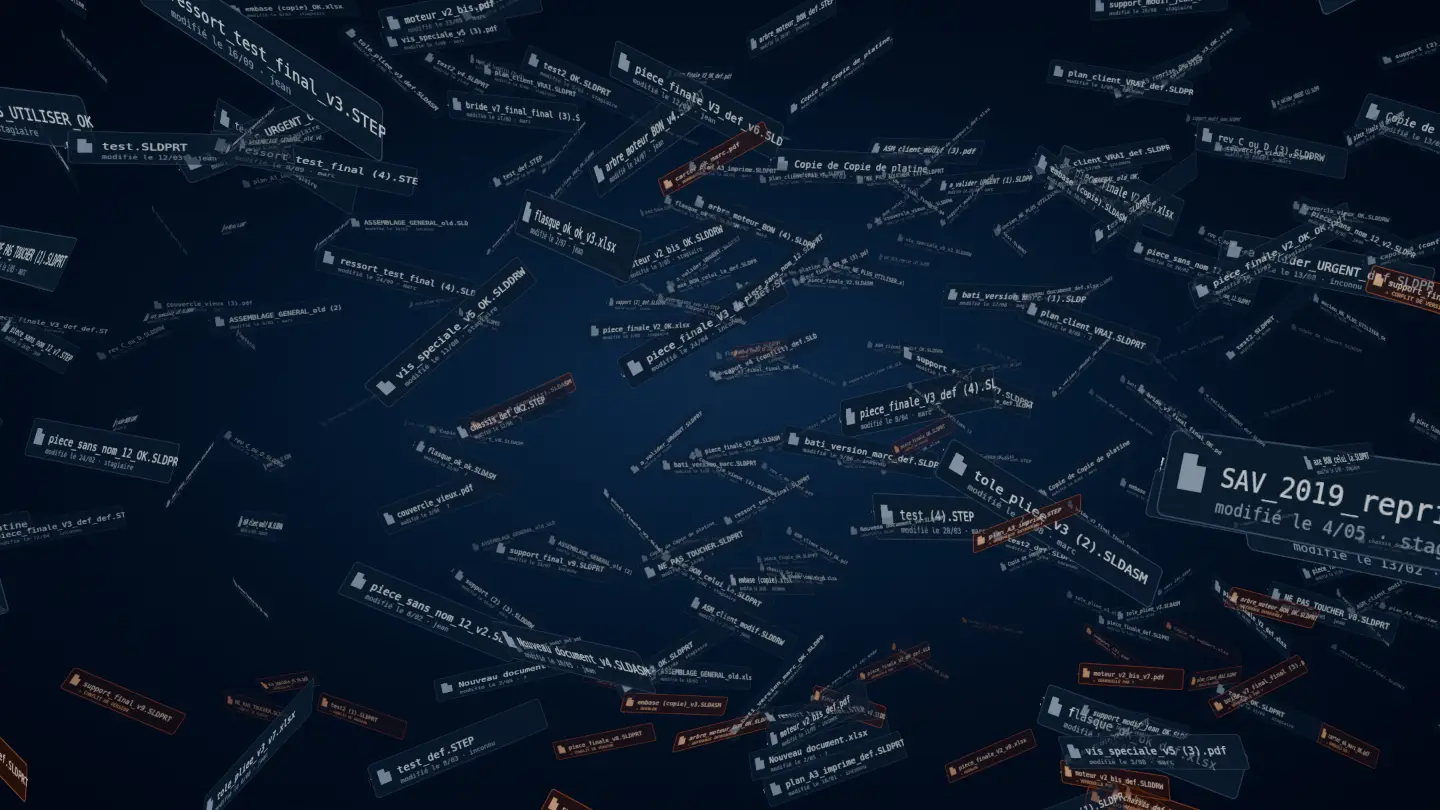
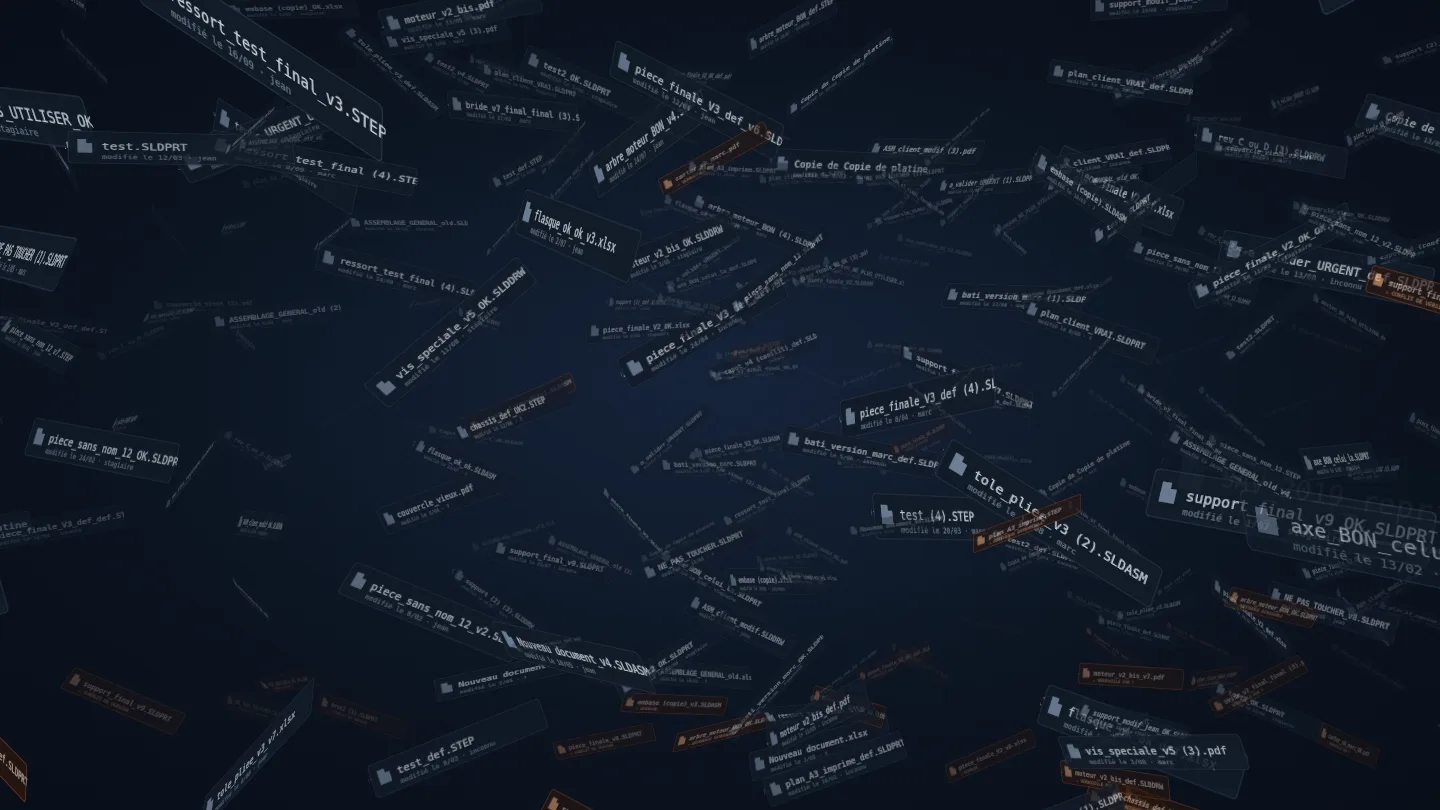
Accueil : titre SOLIDWORKS entier, entrée fluide, image d'attente nette
- le titre se dimensionne sur sa colonne : au-delà d'environ 1700 px le
  « KS » de SOLIDWORKS débordait du masque et était coupé ; le masque ne
  coupe plus qu'en hauteur (police de repli plus large incluse)
- la scène 3D ne se construit qu'après l'entrée du titre (ou au premier
  défilement) : elle bloquait le processeur pendant l'animation
- image d'attente régénérée depuis la première image exacte de la scène,
  en 1x et 2x : nette sur écran haute densité, relève invisible

Claude-Session: https://claude.ai/code/session_01VqtZaX59sHntKJqtvPaQWo

diff --git a/src/styles/components/hero-film.css b/src/styles/components/hero-film.css
@@ -20,7 +20,13 @@
 
 .cinematic .film-hero .hero-inner { position: relative; z-index: 2; display: flex; align-items: center; min-height: 100vh; min-height: 100svh; padding-block: 7rem 5rem; }
 .cinematic .film-hero .hero-copy { width: min(44rem, 52vw); }
-.cinematic .film-hero .hero-title { font-size: clamp(3rem, 7.4vw, 8.4rem); line-height: .95; letter-spacing: -.06em; }
+/* taille bornée par la colonne (cqw) : au-delà d'environ 1700 px la colonne
+   plafonne à 44rem alors que le vw grandit encore, et « SOLIDWORKS » (≈ 6,2 em)
+   débordait de son masque — le « KS » final était coupé */
+.cinematic .film-hero .hero-title { font-size: clamp(3rem, min(7.4vw, 15.6cqw), 8.4rem); line-height: .95; letter-spacing: -.06em; }
+/* le masque de l'entrée ne coupe qu'en hauteur : une police de repli plus large
+   (avant chargement de la webfont) ne rogne plus la fin du mot */
+.film-hero .hero-title .mask-line { overflow-x: visible; overflow-y: clip; }
 .cinematic .film-hero .hero-subtitle { max-width: 40ch; }
 
 /* ---------- chapitres (texte à plat par défaut) ---------- */
@@ -100,7 +106,7 @@
   .fh-veil { background: linear-gradient(0deg, rgb(8 14 24 / .9) 0%, rgb(8 14 24 / .4) 45%, transparent 65%), radial-gradient(ellipse 140% 90% at 50% 40%, transparent 55%, rgb(4 8 14 / .7)); }
   .cinematic .film-hero .hero-inner { align-items: flex-end; padding-bottom: 6rem; }
   .cinematic .film-hero .hero-copy { width: 100%; }
-  .cinematic .film-hero .hero-title { font-size: clamp(2.6rem, 12vw, 4.4rem); }
+  .cinematic .film-hero .hero-title { font-size: clamp(2.6rem, min(12vw, 15.6cqw), 4.4rem); }
   .film-hero.is-live .fh-chapter, .film-hero.is-live .fh-steps { top: auto; bottom: 6rem; translate: none; }
   .film-hero.is-live .fh-step { top: auto; bottom: 0; translate: none; max-width: calc(100vw - 2 * var(--gutter)); }
   .film-hero.is-live .fh-step h3 { font-size: clamp(2rem, 9vw, 3rem); margin: .6rem 0; }

diff --git a/src/js/modules/cinematic.js b/src/js/modules/cinematic.js
@@ -18,8 +18,23 @@ export function initCinematic() {
   // données (ou sans WebGL 2), l'image fixe et les textes à plat suffisent :
   // rien n'est chargé. Le script en ligne du hero a déjà posé .is-live.
   const filmHero=document.querySelector('.film-hero.is-live');
+  // La scène (Three.js, planches de texte, compilation des shaders) ne démarre
+  // qu'une fois l'entrée du titre jouée : construite pendant l'animation, elle
+  // occupait le processeur et le GPU et faisait saccader le titre. L'image
+  // d'attente est la première image exacte de la scène : la relève est invisible.
+  // Un défilement précoce la lance tout de suite.
   if(filmHero){
-    import('./hero-film.js').then(({initHeroFilm})=>initHeroFilm(filmHero)).catch(()=>filmHero.classList.remove('is-live'));
+    let started=false;
+    const start=()=>{
+      if(started) return; started=true;
+      removeEventListener('scroll',start);
+      import('./hero-film.js').then(({initHeroFilm})=>initHeroFilm(filmHero)).catch(()=>filmHero.classList.remove('is-live'));
+    };
+    const whenIdle=()=>('requestIdleCallback' in window ? requestIdleCallback(start,{timeout:400}) : setTimeout(start,50));
+    const last=filmHero.querySelector('.hero-cta');
+    last?.addEventListener('animationend',whenIdle,{once:true});
+    setTimeout(whenIdle,1600);
+    addEventListener('scroll',start,{passive:true,once:true});
   }
 
   const note=document.createElement('p');

diff --git a/src/index.html b/src/index.html
@@ -75,8 +75,9 @@
                     <!-- sans film (mouvement réduit), l’image fixe montre la nomenclature en rosace -->
                     <source media="(prefers-reduced-motion: reduce) and (max-aspect-ratio: 1/1)" srcset="/film/hero/mob/069.webp">
                     <source media="(prefers-reduced-motion: reduce)" srcset="/film/hero/desk/139.webp">
-                    <source media="(max-aspect-ratio: 1/1)" srcset="/film/hero/mob/000.webp">
-                    <img src="/film/hero/desk/000.webp" alt="" width="1440" height="810" fetchpriority="high" decoding="async">
+                    <!-- 1× et 2× : sur écran haute densité l'image d'attente reste nette, et c'est la première image exacte de la scène -->
+                    <source media="(max-aspect-ratio: 1/1)" srcset="/film/hero/mob/000.webp 720w, /film/hero/mob/000@2x.webp 1440w" sizes="100vw">
+                    <img src="/film/hero/desk/000.webp" srcset="/film/hero/desk/000.webp 1440w, /film/hero/desk/000@2x.webp 2880w" sizes="100vw" alt="" width="1440" height="810" fetchpriority="high" decoding="async">
                 </picture>
                 <canvas class="fh-canvas" aria-hidden="true"></canvas>
                 <div class="fh-veil" aria-hidden="true"></div>
